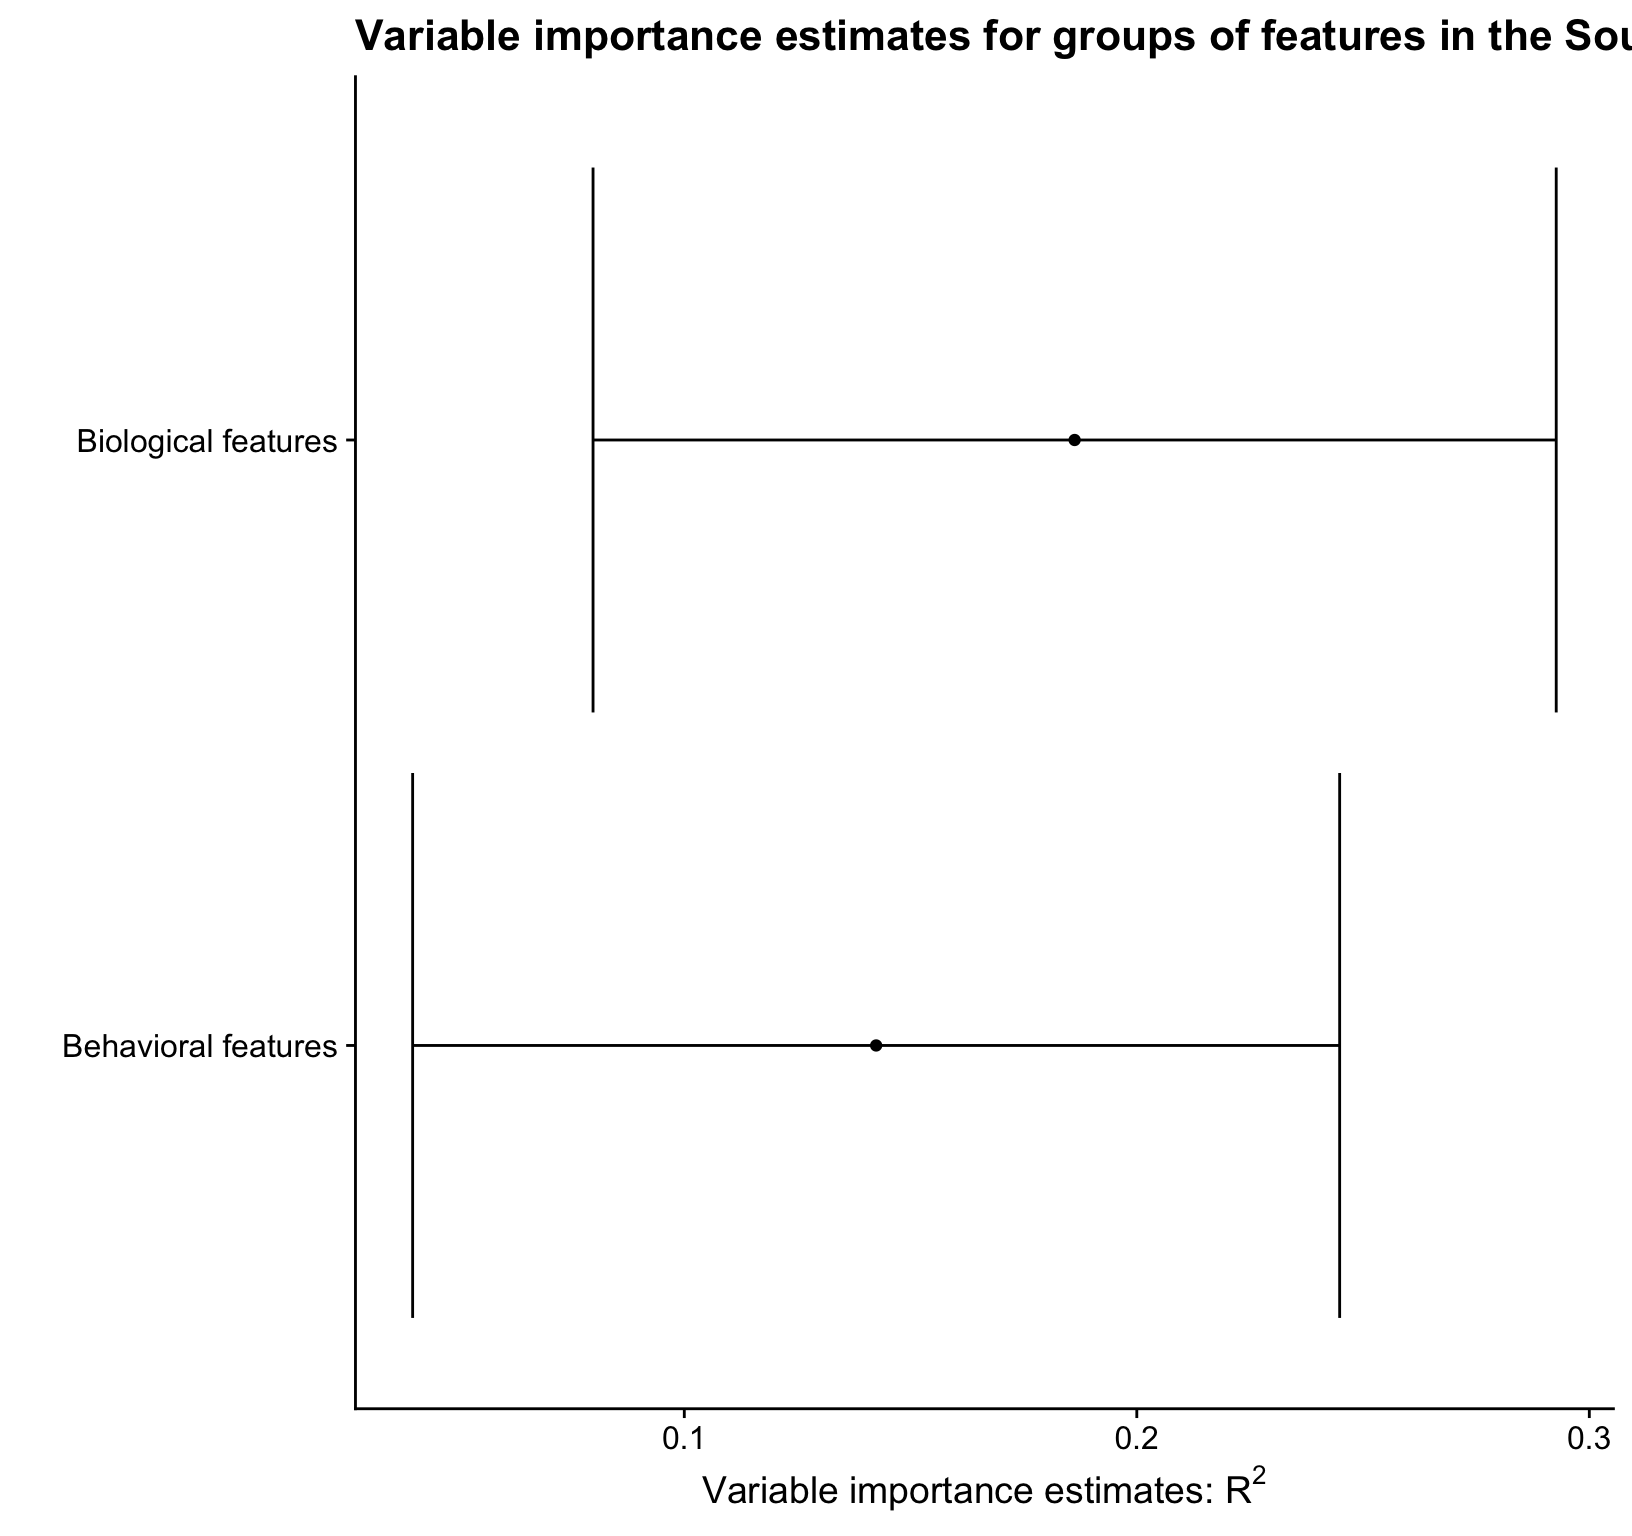
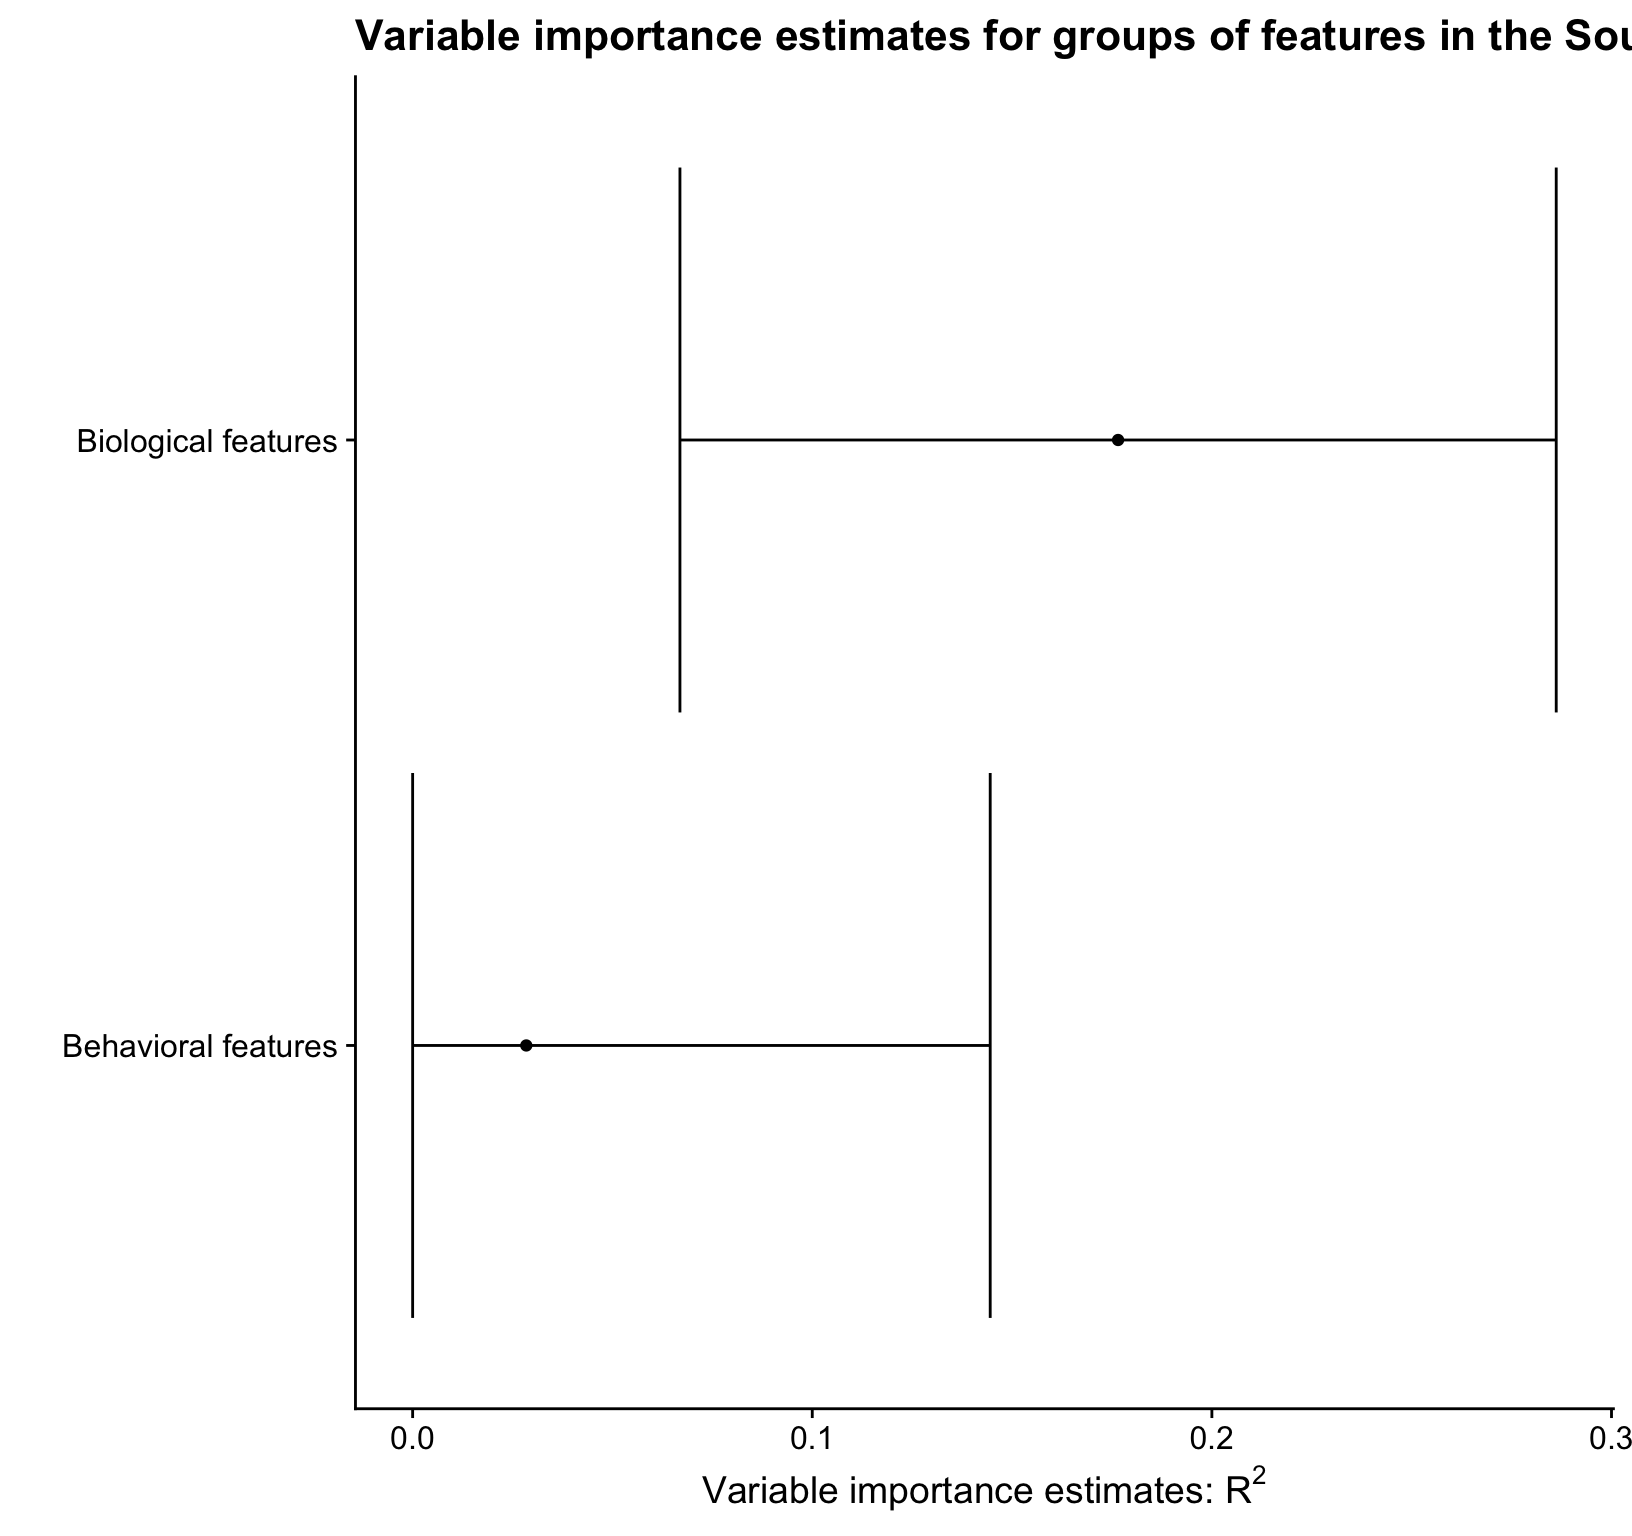
Built site for vimp: 2.0.2@a4e8578

Changed region(s): [[0.9688, 0.9062, 1.0, 0.9688], [0.5938, 0.6562, 0.625, 0.6875], [0.3438, 0.2812, 0.375, 0.3125]]

diff --git a/articles/introduction_to_vimp.html b/articles/introduction_to_vimp.html
@@ -85,7 +85,7 @@
       <h1 data-toc-skip>Introduction to vimp</h1>
                         <h4 class="author">Brian D. Williamson</h4>
             
-            <h4 class="date">2020-04-22</h4>
+            <h4 class="date">2020-04-27</h4>
       
       <small class="dont-index">Source: <a href="https://github.com/bdwilliamson/vimp/blob/master/vignettes/introduction_to_vimp.Rmd"><code>vignettes/introduction_to_vimp.Rmd</code></a></small>
       <div class="hidden name"><code>introduction_to_vimp.Rmd</code></div>
@@ -170,7 +170,7 @@
 ## 
 ## Variable importance estimates:
 ##       Estimate  SE         95% CI                 VIMP &gt; 0 p-value
-## s = 1 0.2130501 0.05325703 [0.1086682, 0.3174319] NA       NA</code></pre>
+## s = 1 0.1465665 0.04848486 [0.05153787, 0.241595] NA       NA</code></pre>
 <div class="sourceCode" id="cb18"><html><body><pre class="r"><span class="fu"><a href="https://rdrr.io/r/base/print.html">print</a></span>(<span class="no">est_1</span>)</pre></body></html></div>
 <pre><code>## Call:
 ## cv_vim(Y = Y, X = X, f1 = f1, f2 = f2, indx = indx, V = V, folds = folds, 
@@ -180,13 +180,13 @@
 ## 
 ## Variable importance estimates:
 ##       Estimate  SE         95% CI                 VIMP &gt; 0 p-value
-## s = 1 0.2130501 0.05325703 [0.1086682, 0.3174319] NA       NA</code></pre>
-<p>This output shows that we have estimated the importance of <span class="math inline">\(X_1\)</span> to be 0.213, with a 95% confidence interval of [0.109, 0.317].</p>
+## s = 1 0.1465665 0.04848486 [0.05153787, 0.241595] NA       NA</code></pre>
+<p>This output shows that we have estimated the importance of <span class="math inline">\(X_1\)</span> to be 0.147, with a 95% confidence interval of [0.052, 0.242].</p>
 </div>
 <div id="detailed-guide" class="section level2">
 <h2 class="hasAnchor">
 <a href="#detailed-guide" class="anchor"></a>Detailed guide</h2>
-<p>In this section, we provide a fuller example of estimating <span class="math inline">\(R^2\)</span>-based variable importance in the context of the South African heart disease study data <span class="citation">(<span class="citeproc-not-found" data-reference-id="hastie2011"><strong>???</strong></span>)</span>.</p>
+<p>In this section, we provide a fuller example of estimating <span class="math inline">\(R^2\)</span>-based variable importance in the context of the South African heart disease study data <span class="citation">(Hastie, Tibshirani, and Friedman 2009)</span>.</p>
 <p>Often when working with data we attempt to estimate the conditional mean of the outcome <span class="math inline">\(Y\)</span> given features <span class="math inline">\(X\)</span>, defined as <span class="math inline">\(\mu_P(x) = E_P(Y \mid X = x)\)</span>.</p>
 <p>There are many tools for estimating this conditional mean. We might choose a classical parametric tool such as linear regression. We might also want to be model-agnostic and use a more nonparametric approach to estimate the conditional mean. However,</p>
 <ul>
@@ -203,7 +203,7 @@
 <div id="a-look-at-the-south-african-heart-disease-study-data" class="section level3">
 <h3 class="hasAnchor">
 <a href="#a-look-at-the-south-african-heart-disease-study-data" class="anchor"></a>A look at the South African heart disease study data</h3>
-<p>Throughout this document I will use the South African heart disease study data <span class="citation">(<span class="citeproc-not-found" data-reference-id="hastie2011"><strong>???</strong></span>)</span>, freely available from the <a href="https://web.stanford.edu/~hastie/ElemStatLearn/datasets/SAheart.data">Elements of Statistical Learning website</a>. Information about these data is available <a href="https://web.stanford.edu/~hastie/ElemStatLearn/datasets/SAheart.info.txt">here</a>.</p>
+<p>Throughout this document I will use the South African heart disease study data <span class="citation">(Hastie, Tibshirani, and Friedman 2009)</span>, freely available from the <a href="https://web.stanford.edu/~hastie/ElemStatLearn/datasets/SAheart.data">Elements of Statistical Learning website</a>. Information about these data is available <a href="https://web.stanford.edu/~hastie/ElemStatLearn/datasets/SAheart.info.txt">here</a>.</p>
 <div class="sourceCode" id="cb20"><html><body><pre class="r"><span class="co">## read in the data from the Elements website</span>
 <span class="fu"><a href="https://rdrr.io/r/base/library.html">library</a></span>(<span class="st">"RCurl"</span>)
 <span class="no">heart_data</span> <span class="kw">&lt;-</span> <span class="fu"><a href="https://rdrr.io/r/utils/read.table.html">read.csv</a></span>(<span class="kw">text</span> <span class="kw">=</span> <span class="fu"><a href="https://rdrr.io/pkg/RCurl/man/getURL.html">getURL</a></span>(<span class="st">"http://web.stanford.edu/~hastie/ElemStatLearn/datasets/SAheart.data"</span>), <span class="kw">header</span> <span class="kw">=</span> <span class="fl">TRUE</span>, <span class="kw">stringsAsFactors</span> <span class="kw">=</span> <span class="fl">FALSE</span>)
@@ -280,15 +280,15 @@
 ## 
 ## Variable importance estimates:
 ##       Estimate  SE         95% CI                 VIMP &gt; 0 p-value     
-## s = 3 0.2972518 0.05034203 [0.1985833, 0.3959204] TRUE     7.936536e-10
-## s = 9 0.2957974 0.05033544 [0.1971418, 0.3944531] TRUE     9.387876e-10
-## s = 7 0.2951165 0.04831203 [0.2004267, 0.3898063] TRUE     6.462199e-10
-## s = 2 0.2945061 0.05029501 [0.1959297, 0.3930825] TRUE     1.111640e-09
-## s = 8 0.2944211 0.05023693 [0.1959585, 0.3928836] TRUE     1.114145e-09
-## s = 1 0.2918027 0.05009443 [0.1936195, 0.3899860] TRUE     1.485307e-09
-## s = 4 0.2890006 0.04914115 [0.1926857, 0.3853154] TRUE     1.851207e-09
-## s = 5 0.2875599 0.05025350 [0.1890648, 0.3860549] TRUE     2.439633e-09
-## s = 6 0.2852797 0.05034687 [0.1866016, 0.3839577] TRUE     3.073367e-09</code></pre>
+## s = 3 0.2443281 0.05002216 [0.1462865, 0.3423698] TRUE     5.219982e-07
+## s = 6 0.2423765 0.05009699 [0.1441882, 0.3405648] TRUE     6.397098e-07
+## s = 9 0.2420443 0.05000708 [0.1440322, 0.3400564] TRUE     6.475879e-07
+## s = 2 0.2407077 0.04950299 [0.1436836, 0.3377317] TRUE     7.081327e-07
+## s = 8 0.2359487 0.05014431 [0.1376677, 0.3342297] TRUE     1.216201e-06
+## s = 7 0.2357140 0.05010124 [0.1375174, 0.3339106] TRUE     1.239505e-06
+## s = 5 0.2352123 0.05009825 [0.1370215, 0.3334030] TRUE     1.306912e-06
+## s = 4 0.2349258 0.04998212 [0.1369626, 0.3328889] TRUE     1.293654e-06
+## s = 1 0.2319674 0.04975566 [0.1344481, 0.3294867] TRUE     1.486021e-06</code></pre>
 </div>
 <div id="building-a-library-of-learners" class="section level3">
 <h3 class="hasAnchor">
@@ -405,24 +405,24 @@
 ## 
 ## Variable importance estimates:
 ##       Estimate  SE         95% CI                 VIMP &gt; 0 p-value
-## s = 5 0.5610682 0.04507651 [0.4727199, 0.6494166] TRUE     0</code></pre>
+## s = 5 0.4881853 0.04974836 [0.3906803, 0.5856903] TRUE     0</code></pre>
 <p>The object returned by <code><a href="../reference/vimp_rsquared.html">vimp_rsquared()</a></code> also contains fitted values from using <code><a href="https://rdrr.io/pkg/SuperLearner/man/SuperLearner.html">SuperLearner()</a></code>; I access these using <code>$full_fit</code> and <code>$red_fit</code>. For example,</p>
 <div class="sourceCode" id="cb33"><html><body><pre class="r"><span class="fu"><a href="https://rdrr.io/r/utils/head.html">head</a></span>(<span class="no">fam_vim</span>$<span class="no">full_fit</span>)</pre></body></html></div>
 <pre><code>##           [,1]
-## [1,] 0.9245583
-## [2,] 0.5141387
-## [3,] 0.3273895
-## [4,] 0.6585672
-## [5,] 0.3078575
-## [6,] 0.7046087</code></pre>
+## [1,] 0.7226426
+## [2,] 0.1415209
+## [3,] 0.6157727
+## [4,] 0.2113619
+## [5,] 0.1384574
+## [6,] 0.1198502</code></pre>
 <div class="sourceCode" id="cb35"><html><body><pre class="r"><span class="fu"><a href="https://rdrr.io/r/utils/head.html">head</a></span>(<span class="no">fam_vim</span>$<span class="no">red_fit</span>)</pre></body></html></div>
 <pre><code>##           [,1]
-## [1,] 0.4751269
-## [2,] 0.4034162
-## [3,] 0.4678128
-## [4,] 0.2479148
-## [5,] 0.4340928
-## [6,] 0.3855157</code></pre>
+## [1,] 0.4865086
+## [2,] 0.3259372
+## [3,] 0.5828679
+## [4,] 0.2181813
+## [5,] 0.4128435
+## [6,] 0.2331965</code></pre>
 <p>I said earlier that I want to obtain estimates of all individual features in these data, so let’s choose type A behavior (<code>tpa</code>) next. Now that I have estimated variable importance for family history, the <code>full_fit</code> object contains our estimate of <span class="math inline">\(\mu_{P_0}\)</span>. Since I have spent the time to estimate this using <code><a href="https://rdrr.io/pkg/SuperLearner/man/SuperLearner.html">SuperLearner()</a></code>, there is no reason to estimate this function again. This leads me to choose (2) above for estimating the importance of type A behavior, since I have already estimated variable importance on one feature in this dataset. Using the small learners library (again only for illustration) yields</p>
 <div class="sourceCode" id="cb37"><html><body><pre class="r"><span class="co">## specify that full_fit doesn't change</span>
 <span class="no">full_fit</span> <span class="kw">&lt;-</span> <span class="no">fam_vim</span>$<span class="no">full_fit</span>
@@ -439,7 +439,7 @@
 ## 
 ## Variable importance estimates:
 ##       Estimate  SE         95% CI                 VIMP &gt; 0 p-value
-## s = 6 0.5658517 0.04504631 [0.4775625, 0.6541408] TRUE     0</code></pre>
+## s = 6 0.4953553 0.04915426 [0.3990147, 0.5916959] TRUE     0</code></pre>
 <p>This takes approximately 5 seconds — now rather than estimating both conditional means, I am only estimating one.</p>
 <p>If I choose (2), then I have to use a single method from the library, or call <code><a href="https://rdrr.io/pkg/SuperLearner/man/SuperLearner.html">SuperLearner()</a></code> myself, prior to estimating variable importance. Then <code><a href="../reference/vim.html">vim()</a></code> returns variable importance estimates based on these fitted values. For example, let’s estimate variable importance for current alcohol consumption using this approach.</p>
 <div class="sourceCode" id="cb39"><html><body><pre class="r"><span class="co">## set up the data, removing the columns for alcohol use and chd</span>
@@ -580,6 +580,9 @@
 </div>
 <div id="ref-hastie1990">
 <p>Hastie, TJ, and RJ Tibshirani. 1990. <em>Generalized Additive Models</em>. Vol. 43. CRC Press.</p>
+</div>
+<div id="ref-hastie2009">
+<p>Hastie, T, R Tibshirani, and J Friedman. 2009. <em>The Elements of Statistical Learning</em>.</p>
 </div>
 <div id="ref-vanderlaan2007">
 <p>van der Laan, MJ, EC Polley, and AE Hubbard. 2007. “Super Learner” 6.</p>

diff --git a/reference/vimp.html b/reference/vimp.html
@@ -6,7 +6,7 @@
 <meta http-equiv="X-UA-Compatible" content="IE=edge">
 <meta name="viewport" content="width=device-width, initial-scale=1.0">
 
-<title>vimp: Nonparametric variable importance assessment — vimp • vimp</title>
+<title>vimp: Perform Inference on Algorithm-Agnostic Variable Importance — vimp • vimp</title>
 
 
 <!-- jquery -->
@@ -39,10 +39,12 @@
 
 
 
-<meta property="og:title" content="vimp: Nonparametric variable importance assessment — vimp" />
-<meta property="og:description" content="The vimp package provides one major function: vim.
-This function calculates an estimate of the variable importance
-parameter of interest developed by Williamson, Gilbert, Simon, and Carone. The parameter is defined as the additional variability in the outcome explained by including the covariates of interest in the estimating procedure." />
+<meta property="og:title" content="vimp: Perform Inference on Algorithm-Agnostic Variable Importance — vimp" />
+<meta property="og:description" content="A unified framework for valid statistical inference on algorithm-agnostic
+measures of variable importance. You provide the data, a method for 
+estimating the conditional mean of the outcome given the covariates,
+choose a variable importance measure, and specify variable(s) of interest;
+'vimp' takes care of the rest." />
 
 
 
@@ -125,28 +127,60 @@ parameter of interest developed by Williamson, Gilbert, Simon, and Carone. The p
 <div class="row">
   <div class="col-md-9 contents">
     <div class="page-header">
-    <h1>vimp: Nonparametric variable importance assessment</h1>
-    <small class="dont-index">Source: <a href='https://github.com/bdwilliamson/vimp/blob/master/R/vimp.R'><code>R/vimp.R</code></a></small>
+    <h1>vimp: Perform Inference on Algorithm-Agnostic Variable Importance</h1>
+    <small class="dont-index">Source: <a href='https://github.com/bdwilliamson/vimp/blob/master/R/vimp-package.R'><code>R/vimp-package.R</code></a></small>
     <div class="hidden name"><code>vimp.Rd</code></div>
     </div>
 
     <div class="ref-description">
-    <p>The vimp package provides one major function: vim.
-This function calculates an estimate of the variable importance
-parameter of interest developed by Williamson, Gilbert, Simon, and Carone. The parameter is defined as the additional variability in the outcome explained by including the covariates of interest in the estimating procedure.</p>
+    <p>A unified framework for valid statistical inference on algorithm-agnostic
+measures of variable importance. You provide the data, a method for 
+estimating the conditional mean of the outcome given the covariates,
+choose a variable importance measure, and specify variable(s) of interest;
+'vimp' takes care of the rest.</p>
     </div>
 
 
 
-    <h2 class="hasAnchor" id="vimp-functions"><a class="anchor" href="#vimp-functions"></a>vimp Functions</h2>
+    <h2 class="hasAnchor" id="author-s-"><a class="anchor" href="#author-s-"></a>Author(s)</h2>
 
     
 
-<p>The function vimp_regression() computes the estimates, standard error estimates,
-and confidence intervals for the ANOVA-based variable importance measure. It is an object of class "vim",
-and has its own print method.</p>
-<p>The function merge_vim() takes the output of multiple calls to vimp_regression(), and combines the results into a single vim object.</p>
-<p>The function format() formats a vim object for printing; print() prints the results; and plot() plots the estimates and standard errors.</p>
+<p><b>Maintainer</b>: Brian Williamson <a href='http://bdwilliamson.github.io'>http://bdwilliamson.github.io</a></p>
+<p>Methodology authors:</p><ul>
+<li><p>Brian D. Williamson</p></li>
+<li><p>Peter B. Gilbert</p></li>
+<li><p>Noah R. Simon</p></li>
+<li><p>Marco Carone</p></li>
+</ul>
+
+    <h2 class="hasAnchor" id="see-also"><a class="anchor" href="#see-also"></a>See Also</h2>
+
+    
+
+<p>Preprints:</p><ul>
+<li><p><a href='http://biostats.bepress.com/uwbiostat/paper422/'>http://biostats.bepress.com/uwbiostat/paper422/</a> (R-squared-based variable importance)</p></li>
+<li><p><a href='http://arxiv.org/abs/2004.03683'>http://arxiv.org/abs/2004.03683</a> (general variable importance)</p></li>
+</ul>
+
+<p>Other useful links:</p><ul>
+<li><p><a href='http://bdwilliamson.github.io/vimp'>http://bdwilliamson.github.io/vimp</a></p></li>
+<li><p><a href='http://github.com/bdwilliamson/vimp'>http://github.com/bdwilliamson/vimp</a></p></li>
+<li><p>Report bugs at <a href='http://github.com/bdwilliamson/vimp/issues'>http://github.com/bdwilliamson/vimp/issues</a></p></li>
+</ul>
+
+    <h2 class="hasAnchor" id="imports"><a class="anchor" href="#imports"></a>Imports</h2>
+
+    
+
+<p>The packages that we import either make the internal code nice (dplyr, magrittr, tibble, rlang), 
+are directly relevant to estimating the conditional mean (SuperLearner) or predictiveness measures (ROCR), 
+or are necessary for hypothesis testing (stats).</p>
+<p>We suggest several other packages: xgboost, ranger, gam, glmnet, and quadprog allow 
+a flexible library of candidate learners in the Super Learner; ggplot2, cowplot, 
+and forcats help with plotting variable importance estimates; testthat and covr 
+help with unit tests; and knitr, rmarkdown,
+RCurl, and MASS help with the vignettes and examples.</p>
 
   </div>
   <div class="col-md-3 hidden-xs hidden-sm" id="pkgdown-sidebar">

diff --git a/404.html b/404.html
@@ -18,8 +18,8 @@
 <script src="https://cdnjs.cloudflare.com/ajax/libs/twitter-bootstrap/3.4.1/js/bootstrap.min.js" integrity="sha256-nuL8/2cJ5NDSSwnKD8VqreErSWHtnEP9E7AySL+1ev4=" crossorigin="anonymous"></script>
 
 <!-- bootstrap-toc -->
-<link rel="stylesheet" href="bootstrap-toc.css">
-<script src="bootstrap-toc.js"></script>
+<link rel="stylesheet" href="https://bdwilliamson.github.io/vimp/bootstrap-toc.css">
+<script src="https://bdwilliamson.github.io/vimp/bootstrap-toc.js"></script>
 
 <!-- Font Awesome icons -->
 <link rel="stylesheet" href="https://cdnjs.cloudflare.com/ajax/libs/font-awesome/5.12.1/css/all.min.css" integrity="sha256-mmgLkCYLUQbXn0B1SRqzHar6dCnv9oZFPEC1g1cwlkk=" crossorigin="anonymous" />
@@ -33,8 +33,8 @@
 <script src="https://cdnjs.cloudflare.com/ajax/libs/headroom/0.11.0/jQuery.headroom.min.js" integrity="sha256-ZX/yNShbjqsohH1k95liqY9Gd8uOiE1S4vZc+9KQ1K4=" crossorigin="anonymous"></script>
 
 <!-- pkgdown -->
-<link href="pkgdown.css" rel="stylesheet">
-<script src="pkgdown.js"></script>
+<link href="https://bdwilliamson.github.io/vimp/pkgdown.css" rel="stylesheet">
+<script src="https://bdwilliamson.github.io/vimp/pkgdown.js"></script>
 
 
 
@@ -70,7 +70,7 @@
         <span class="icon-bar"></span>
       </button>
       <span class="navbar-brand">
-        <a class="navbar-link" href="index.html">vimp</a>
+        <a class="navbar-link" href="https://bdwilliamson.github.io/vimp/index.html">vimp</a>
         <span class="version label label-default" data-toggle="tooltip" data-placement="bottom" title="Released version">2.0.2</span>
       </span>
     </div>

diff --git a/index.html b/index.html
@@ -84,9 +84,10 @@
 
       </header><div class="row">
   <div class="contents col-md-9">
-<div id="rvimp-inference-on-algorithm-agnostic-variable-importance" class="section level1">
+<div id="rvimp-inference-on-algorithm-agnostic-variable-importance-" class="section level1">
 <div class="page-header"><h1 class="hasAnchor">
-<a href="#rvimp-inference-on-algorithm-agnostic-variable-importance" class="anchor"></a>R/<code>vimp</code>: inference on algorithm-agnostic variable importance</h1></div>
+<a href="#rvimp-inference-on-algorithm-agnostic-variable-importance-" class="anchor"></a>R/<code>vimp</code>: inference on algorithm-agnostic variable importance <img src="reference/figures/vimp_logo.png" align="right" width="120px">
+</h1></div>
 
 <p><strong>Software author:</strong> <a href="https://bdwilliamson.github.io/">Brian Williamson</a></p>
 <p><strong>Methodology authors:</strong> <a href="https://bdwilliamson.github.io/">Brian Williamson</a>, <a href="https://www.fredhutch.org/en/faculty-lab-directory/gilbert-peter.html">Peter Gilbert</a>, <a href="http://faculty.washington.edu/nrsimon/">Noah Simon</a>, <a href="http://faculty.washington.edu/mcarone/about.html">Marco Carone</a></p>
